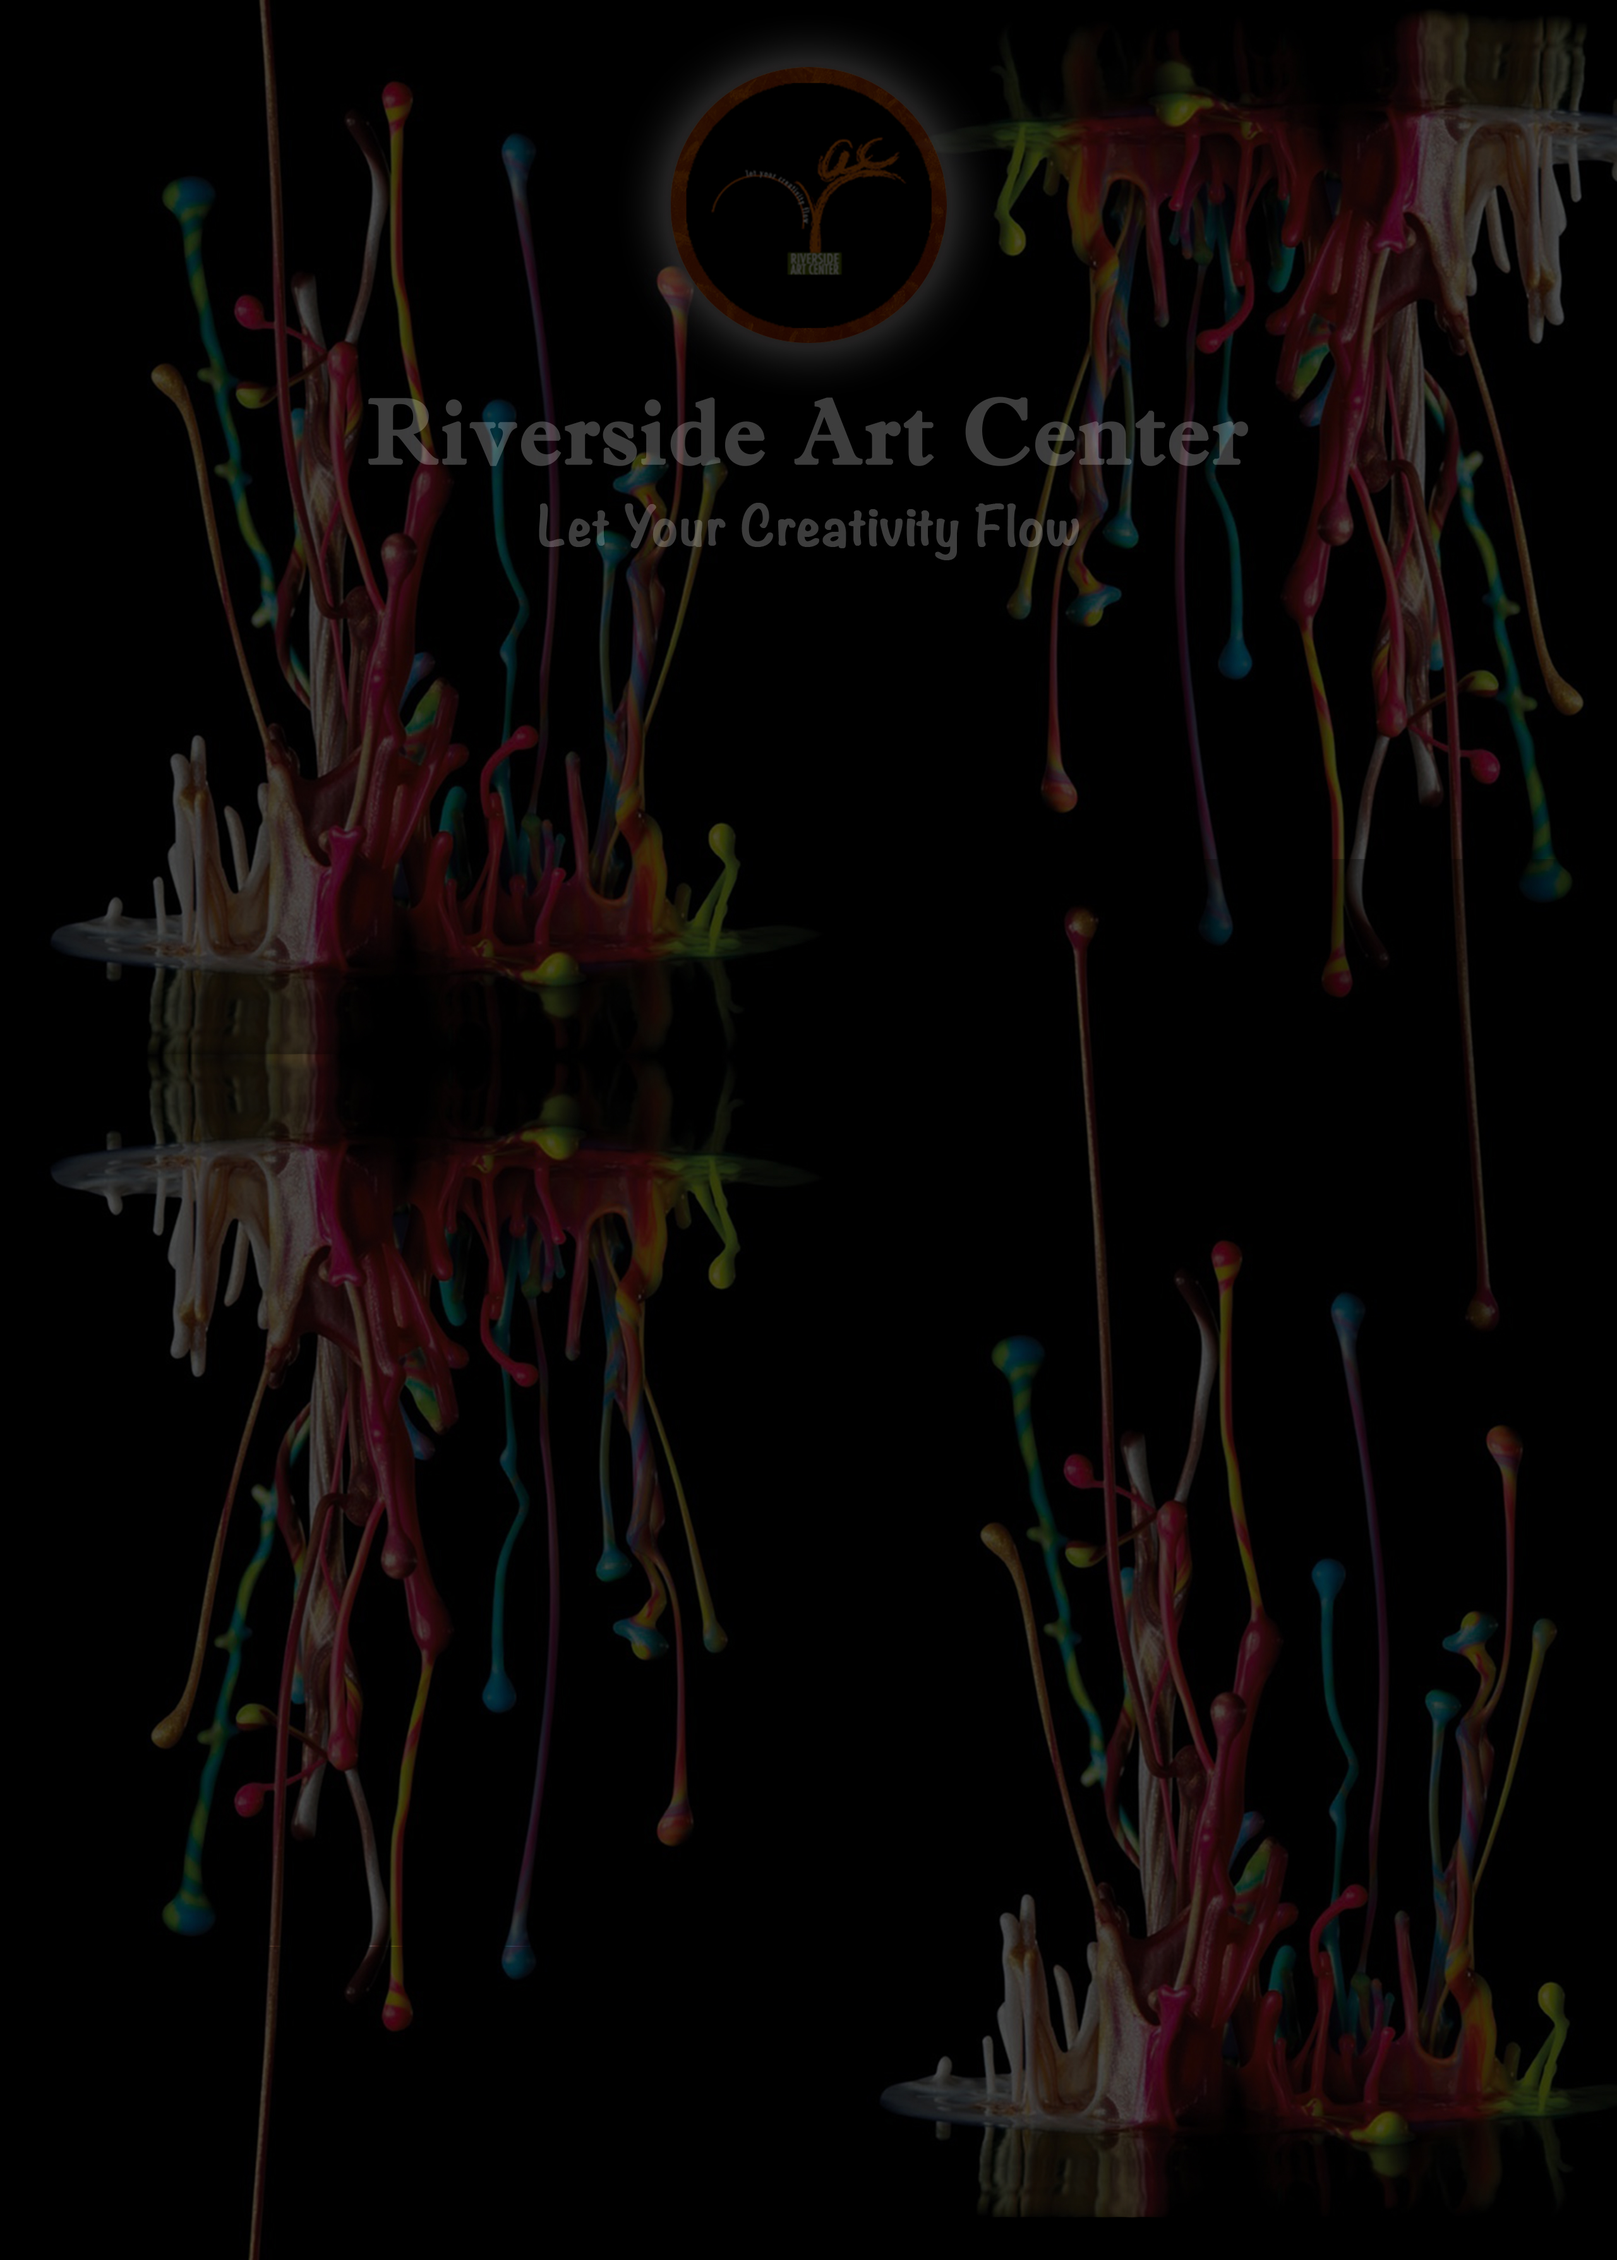
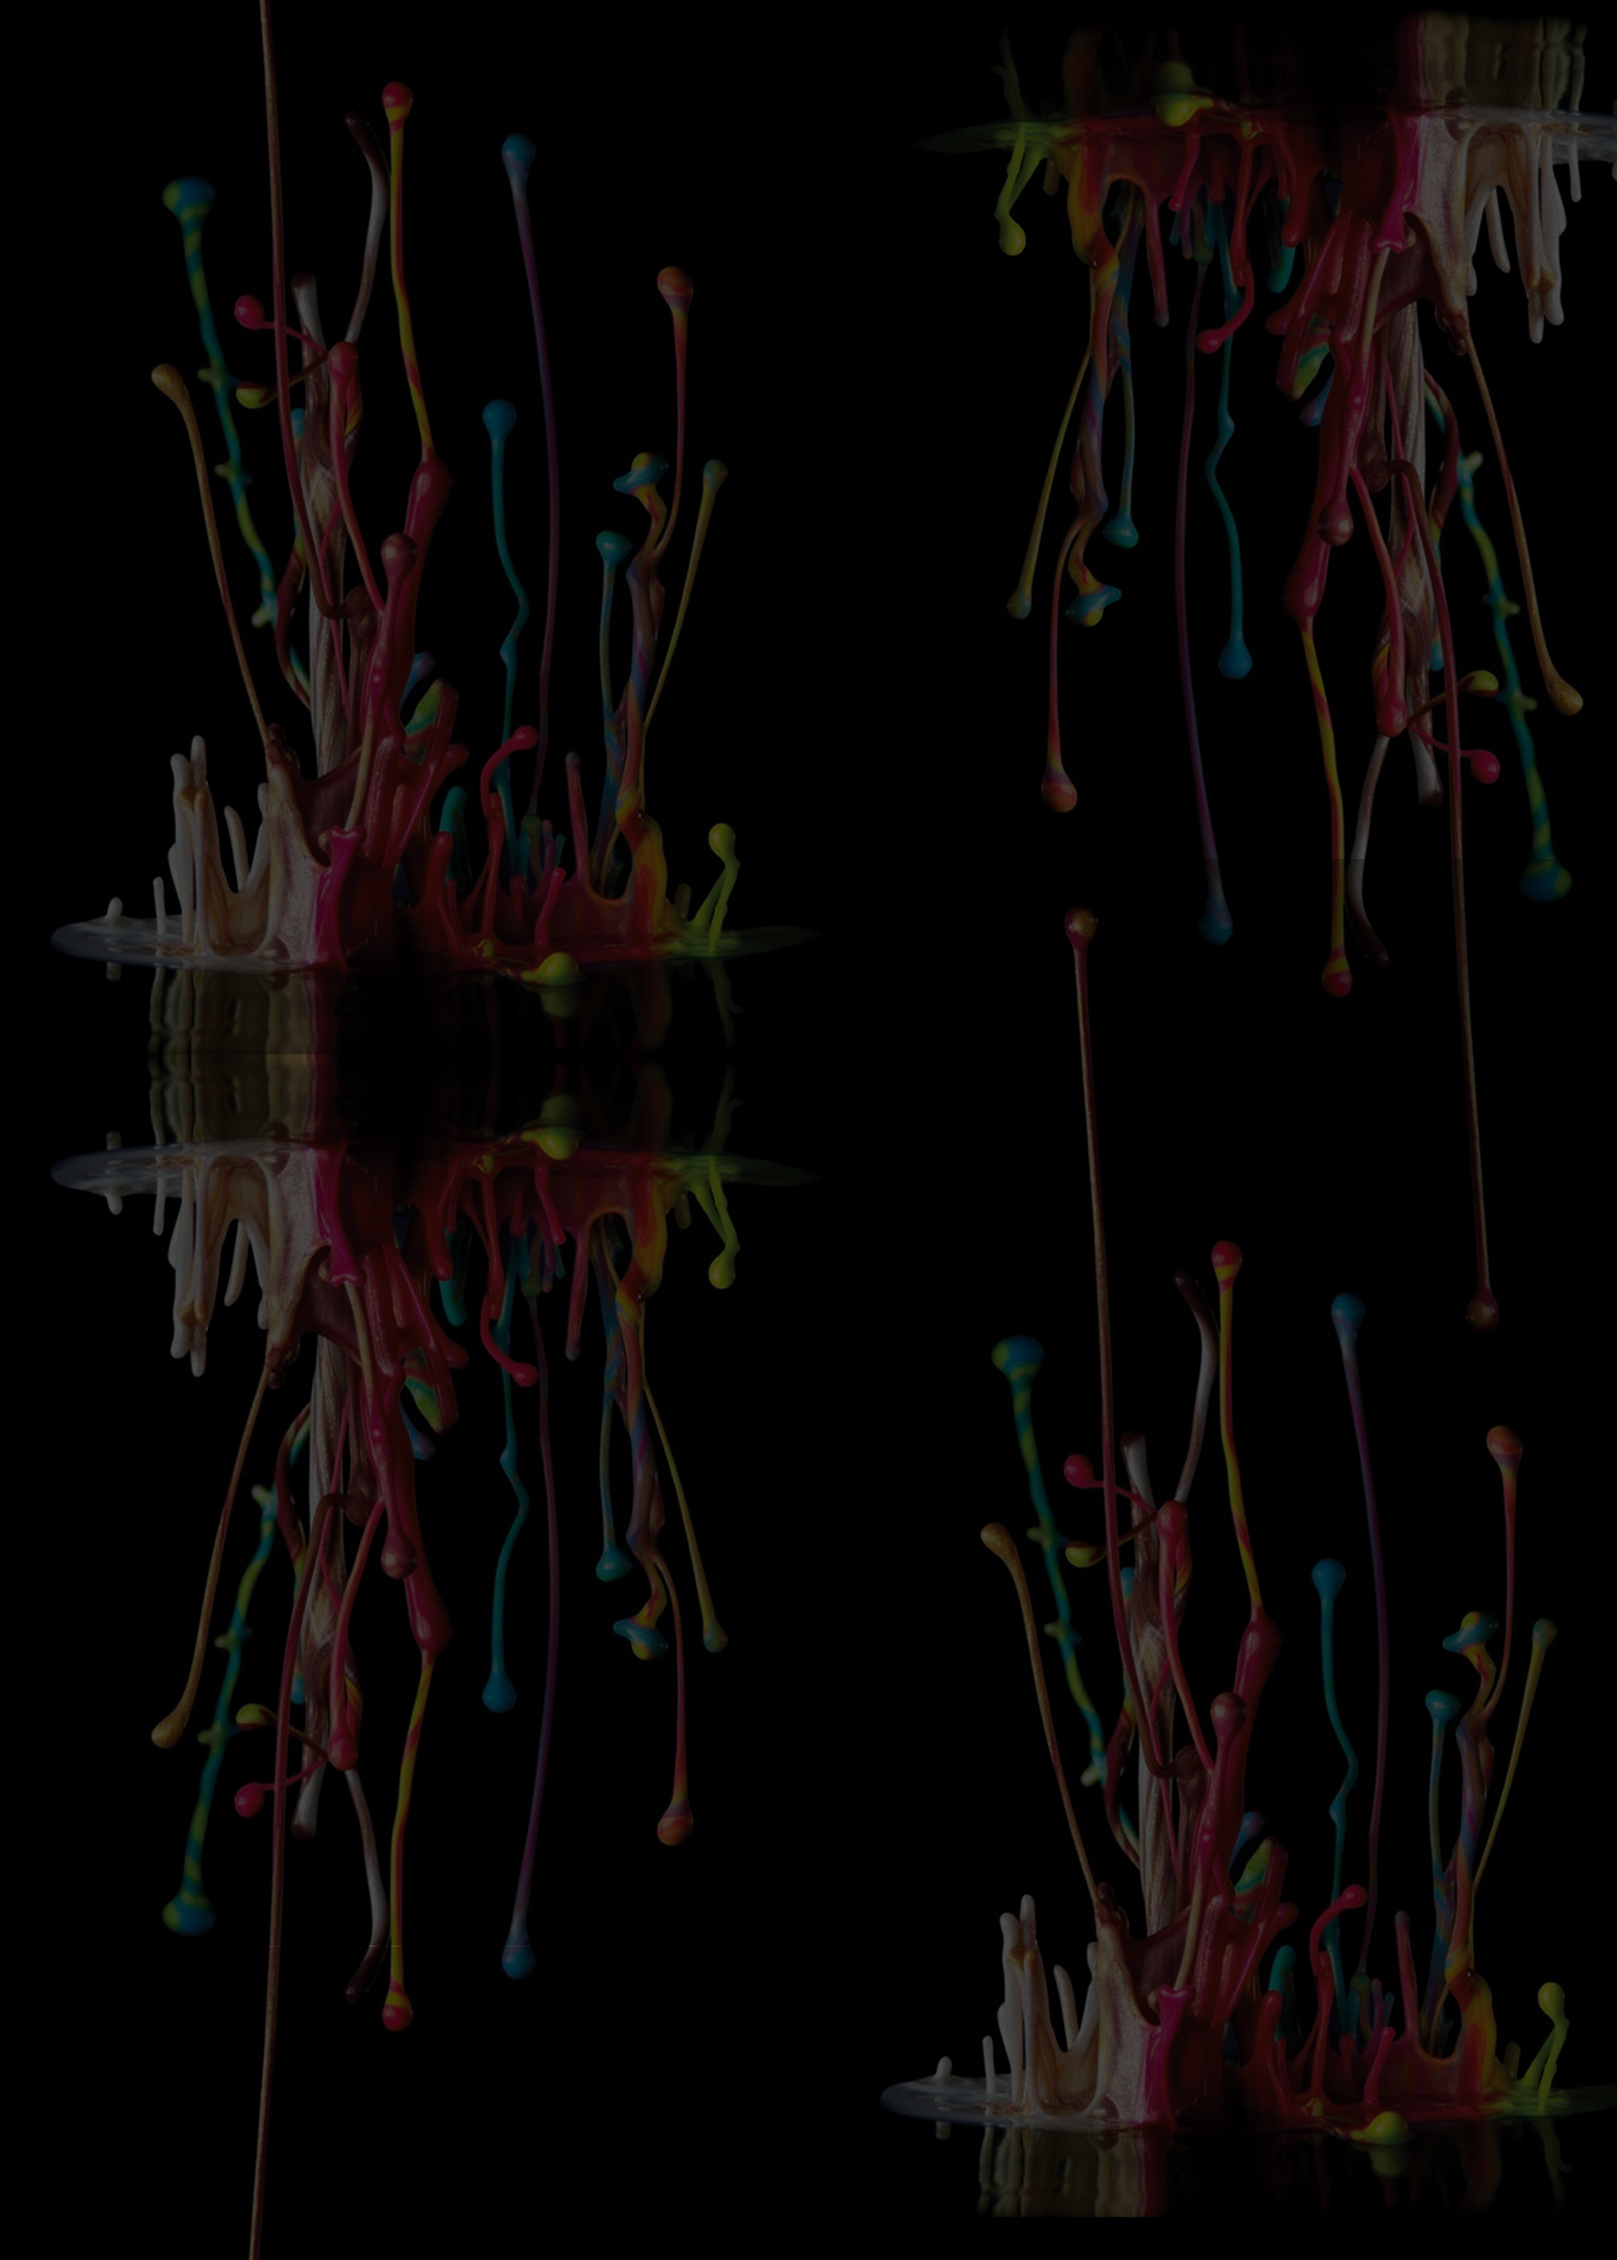
Finished Enter Page. Figured out how to make it responsive.
Very proud of myself for figuring this one out.

Changed region(s): [[0.2188, 0.0, 0.7812, 0.2482]]

diff --git a/Enter page.css b/Enter page.css
@@ -63,3 +63,188 @@ div.cirrcle {
     -moz-box-shadow: 0 0 2px #91bd09;
     border:1px solid #91bd09;
 }
+
+/*///////////////////////////////////////////////////////////////////////////*/
+/*///////////////////////////////////////////////////////////////////////////*/
+/*//////////////          Responsive Design            //////////////////////*/
+/*///////////////////////////////////////////////////////////////////////////*/
+/*///////////////////////////////////////////////////////////////////////////*/
+
+
+@media only screen
+  and (min-device-width: 320px)
+  and (max-device-width: 568px)
+  and (orientation : portrait)
+  and (-webkit-min-device-pixel-ratio: 2){
+ .background {
+  background-size: 270%;
+}
+
+.logo {
+  width: 90%;
+  margin-left: 5%;
+  margin-top: 25%;
+
+}
+
+.button {
+  width: 35.5%;
+  margin-top: -.5%;
+  margin-left: 34.5%;
+}
+
+
+p.enter {
+  font-size: 1.8em;
+  padding-left: 5%;
+}
+
+div.cirrcle {
+    margin-left: 35%;
+    margin-top:25%;
+    width:100px;
+    height:100px;
+}
+  }
+
+@media only screen
+  and (min-device-width: 320px)
+  and (max-device-width: 568px)
+  and (orientation : landscape)
+  and (-webkit-min-device-pixel-ratio: 2) {
+    .background {
+      background-size: 67%;
+    }
+
+    .logo {
+      width: 50%;
+      margin-left: 25%;
+    }
+
+    .button {
+      width: 15%;
+      margin-left: 43.5%;
+    }
+
+
+    p.enter {
+      font-size: 1.5em;
+      padding-left: 1.8%;
+      margin-top:3.5%;
+    }
+
+    div.cirrcle {
+        margin-left: 43.5%;
+        margin-top: 5%;
+        width:80px;
+        height:80px;
+    }
+
+  }
+
+  @media only screen
+    and (min-device-width: 768px)
+    and (max-device-width: 1024px)
+    and (orientation : portrait)
+    and (-webkit-min-device-pixel-ratio: 2) {
+          .background {
+      background-size: 205%;
+    }
+
+    .logo {
+      width: 75%;
+      margin-left: 15%;
+      margin-top: 15%;
+    }
+
+    .button {
+      width: 26%;
+      margin-left: 40%;
+    }
+
+
+    p.enter {
+      font-size: 3.5em;
+      padding-left: 3%;
+      margin-top:7%;
+    }
+
+    div.cirrcle {
+        margin-left: 40%;
+        margin-top: 20%;
+        width:190px;
+        height:190px;
+    }
+
+  }
+
+  @media only screen
+    and (min-device-width: 768px)
+    and (max-device-width: 1024px)
+    and (orientation : landscape)
+    and (-webkit-min-device-pixel-ratio: 2) {
+                .background {
+      background-size: 100%;
+    }
+
+    .logo {
+      width: 55%;
+      margin-left: 25%;
+      margin-top: 5%;
+    }
+
+    .button {
+      width: 20%;
+      margin-left: 43.5%;
+    }
+
+
+    p.enter {
+      font-size: 3.5em;
+      padding-left: 2.5%;
+    }
+
+    div.cirrcle {
+        margin-left: 44%;
+        margin-top: 8%;
+        width:190px;
+        height:190px;
+    }
+
+
+  }
+
+  @media screen
+    and (min-device-width: 1200px)
+    and (max-device-width: 1600px)
+    and (-webkit-min-device-pixel-ratio: 2)
+    and (min-resolution: 192dpi) {
+                      .background {
+      background-size: 100%;
+    }
+
+    .logo {
+      width: 50%;
+      margin-left: 25%;
+      margin-top: 1%;
+    }
+
+    .button {
+      width: 20%;
+      margin-left: 40.7%;
+    }
+
+
+    p.enter {
+      font-size: 4.5em;
+      padding-left: 2.5%;
+    }
+
+    div.cirrcle {
+        margin-left: 41%;
+        margin-top: 5%;
+        width:250px;
+        height:250px;
+    }
+
+  }
